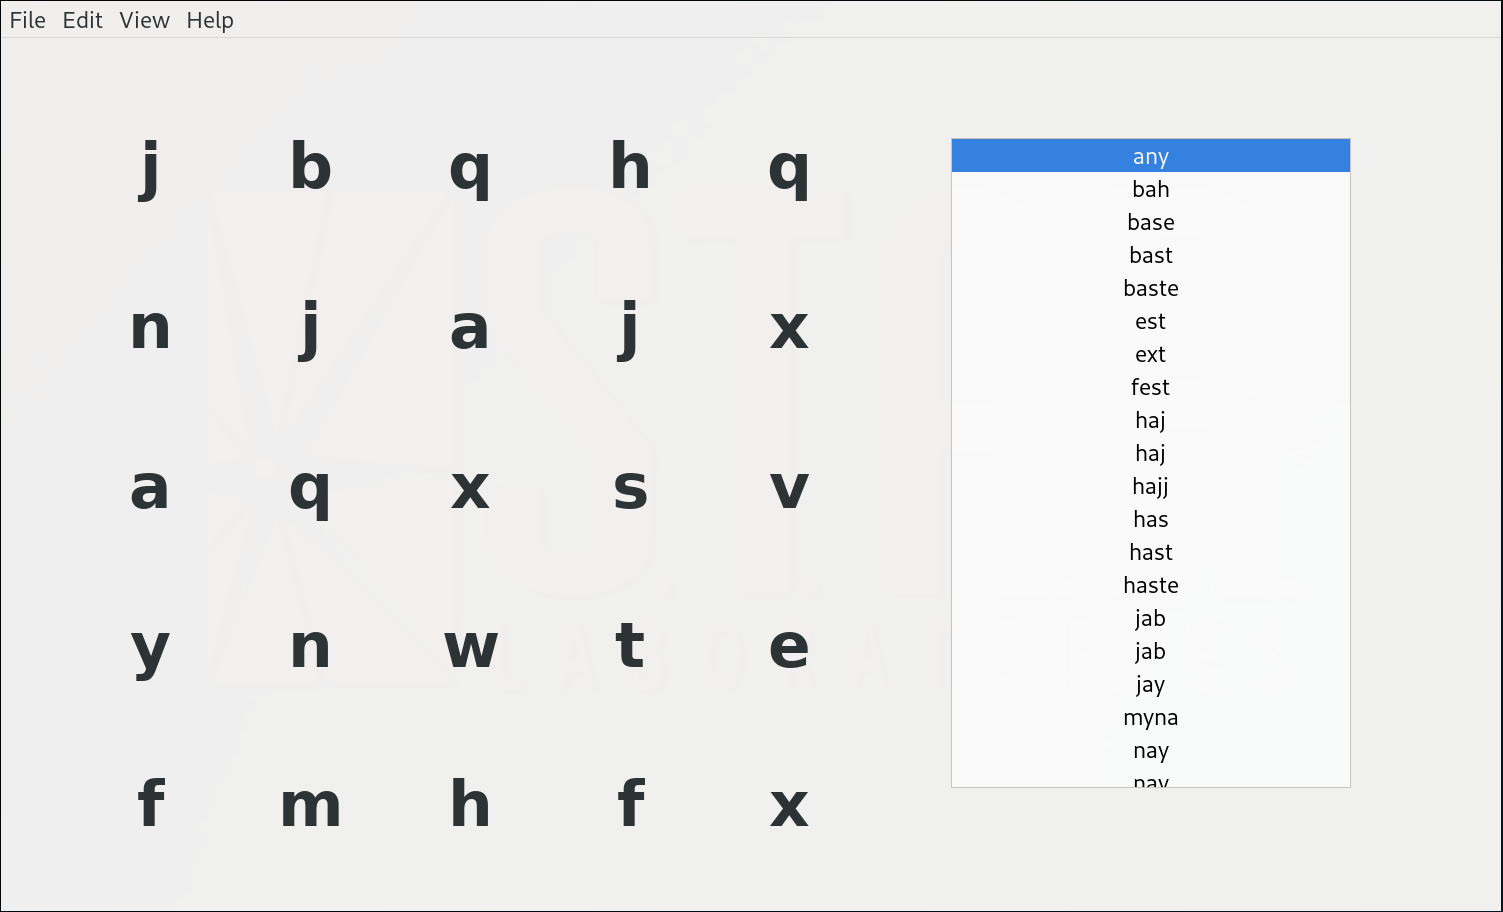
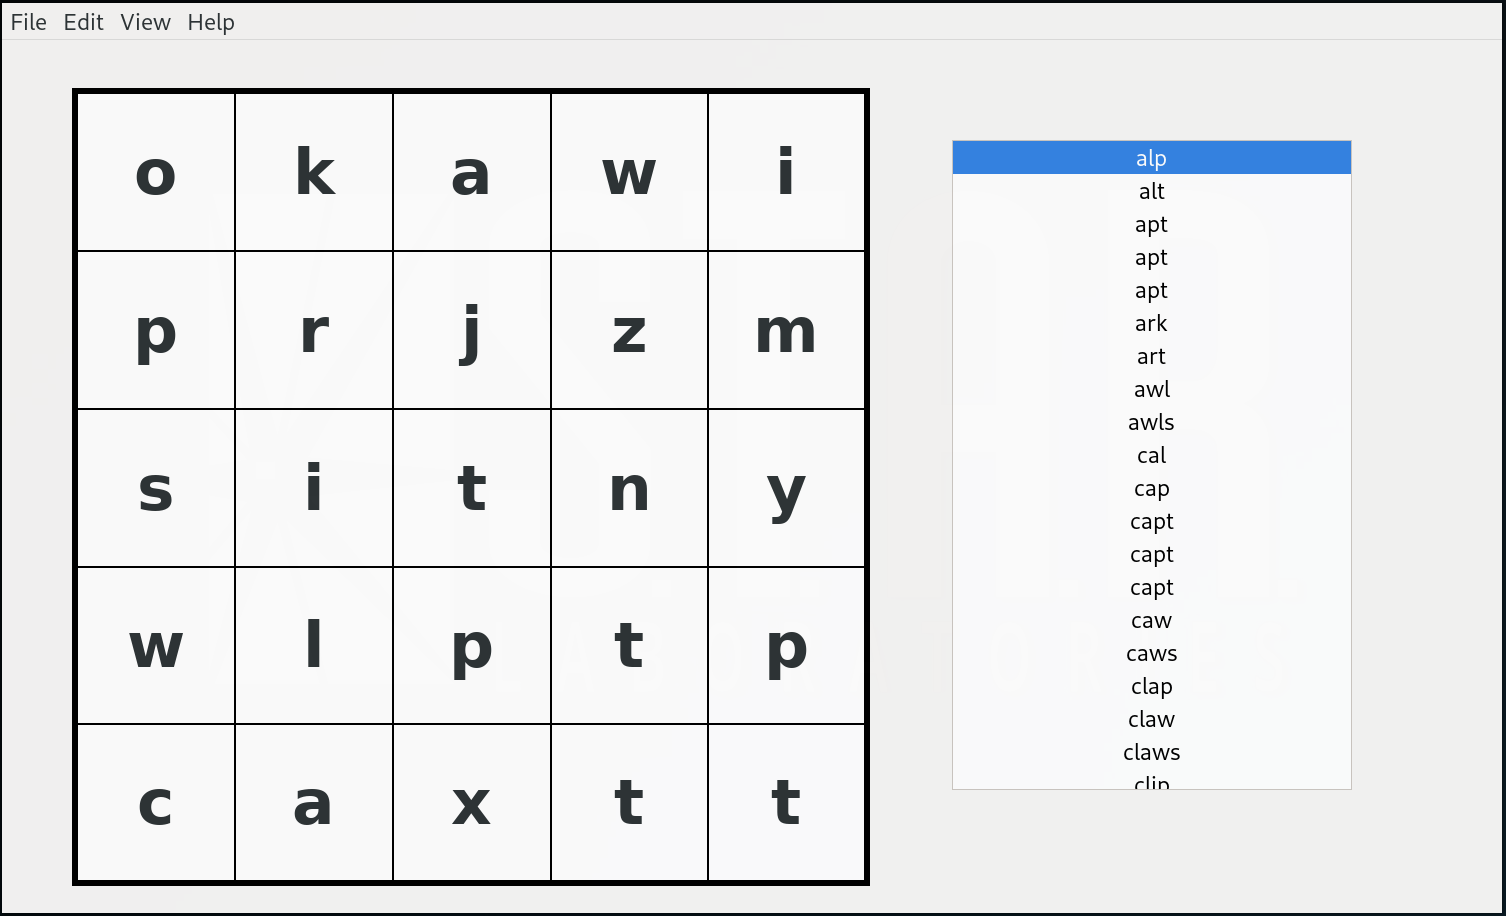
gui work and updated images

diff --git a/boggle.css b/boggle.css
@@ -1,0 +1,9 @@
+#boggle_grid {
+    border: 5px solid black;
+    background-color: #ffffff;
+}
+
+.letter {
+    border: 1px solid black;
+    background-color: #ffffff;
+}

diff --git a/main.c b/main.c
@@ -79,6 +79,21 @@ int main(int argc, char *argv[])
     }
 
 
+
+    GtkCssProvider* css_provider = gtk_css_provider_new();
+    if(!gtk_css_provider_load_from_path(css_provider, "boggle.css", NULL))
+    {
+        g_object_unref(css_provider);
+    }
+    GdkDisplay* display = gdk_display_get_default();
+    GdkScreen* screen = gdk_display_get_default_screen(display);
+    gtk_style_context_add_provider_for_screen(screen,
+            GTK_STYLE_PROVIDER(css_provider),
+            GTK_STYLE_PROVIDER_PRIORITY_APPLICATION);
+
+
+
+
     GObject *window = gtk_builder_get_object(builder, "window");
 
 
